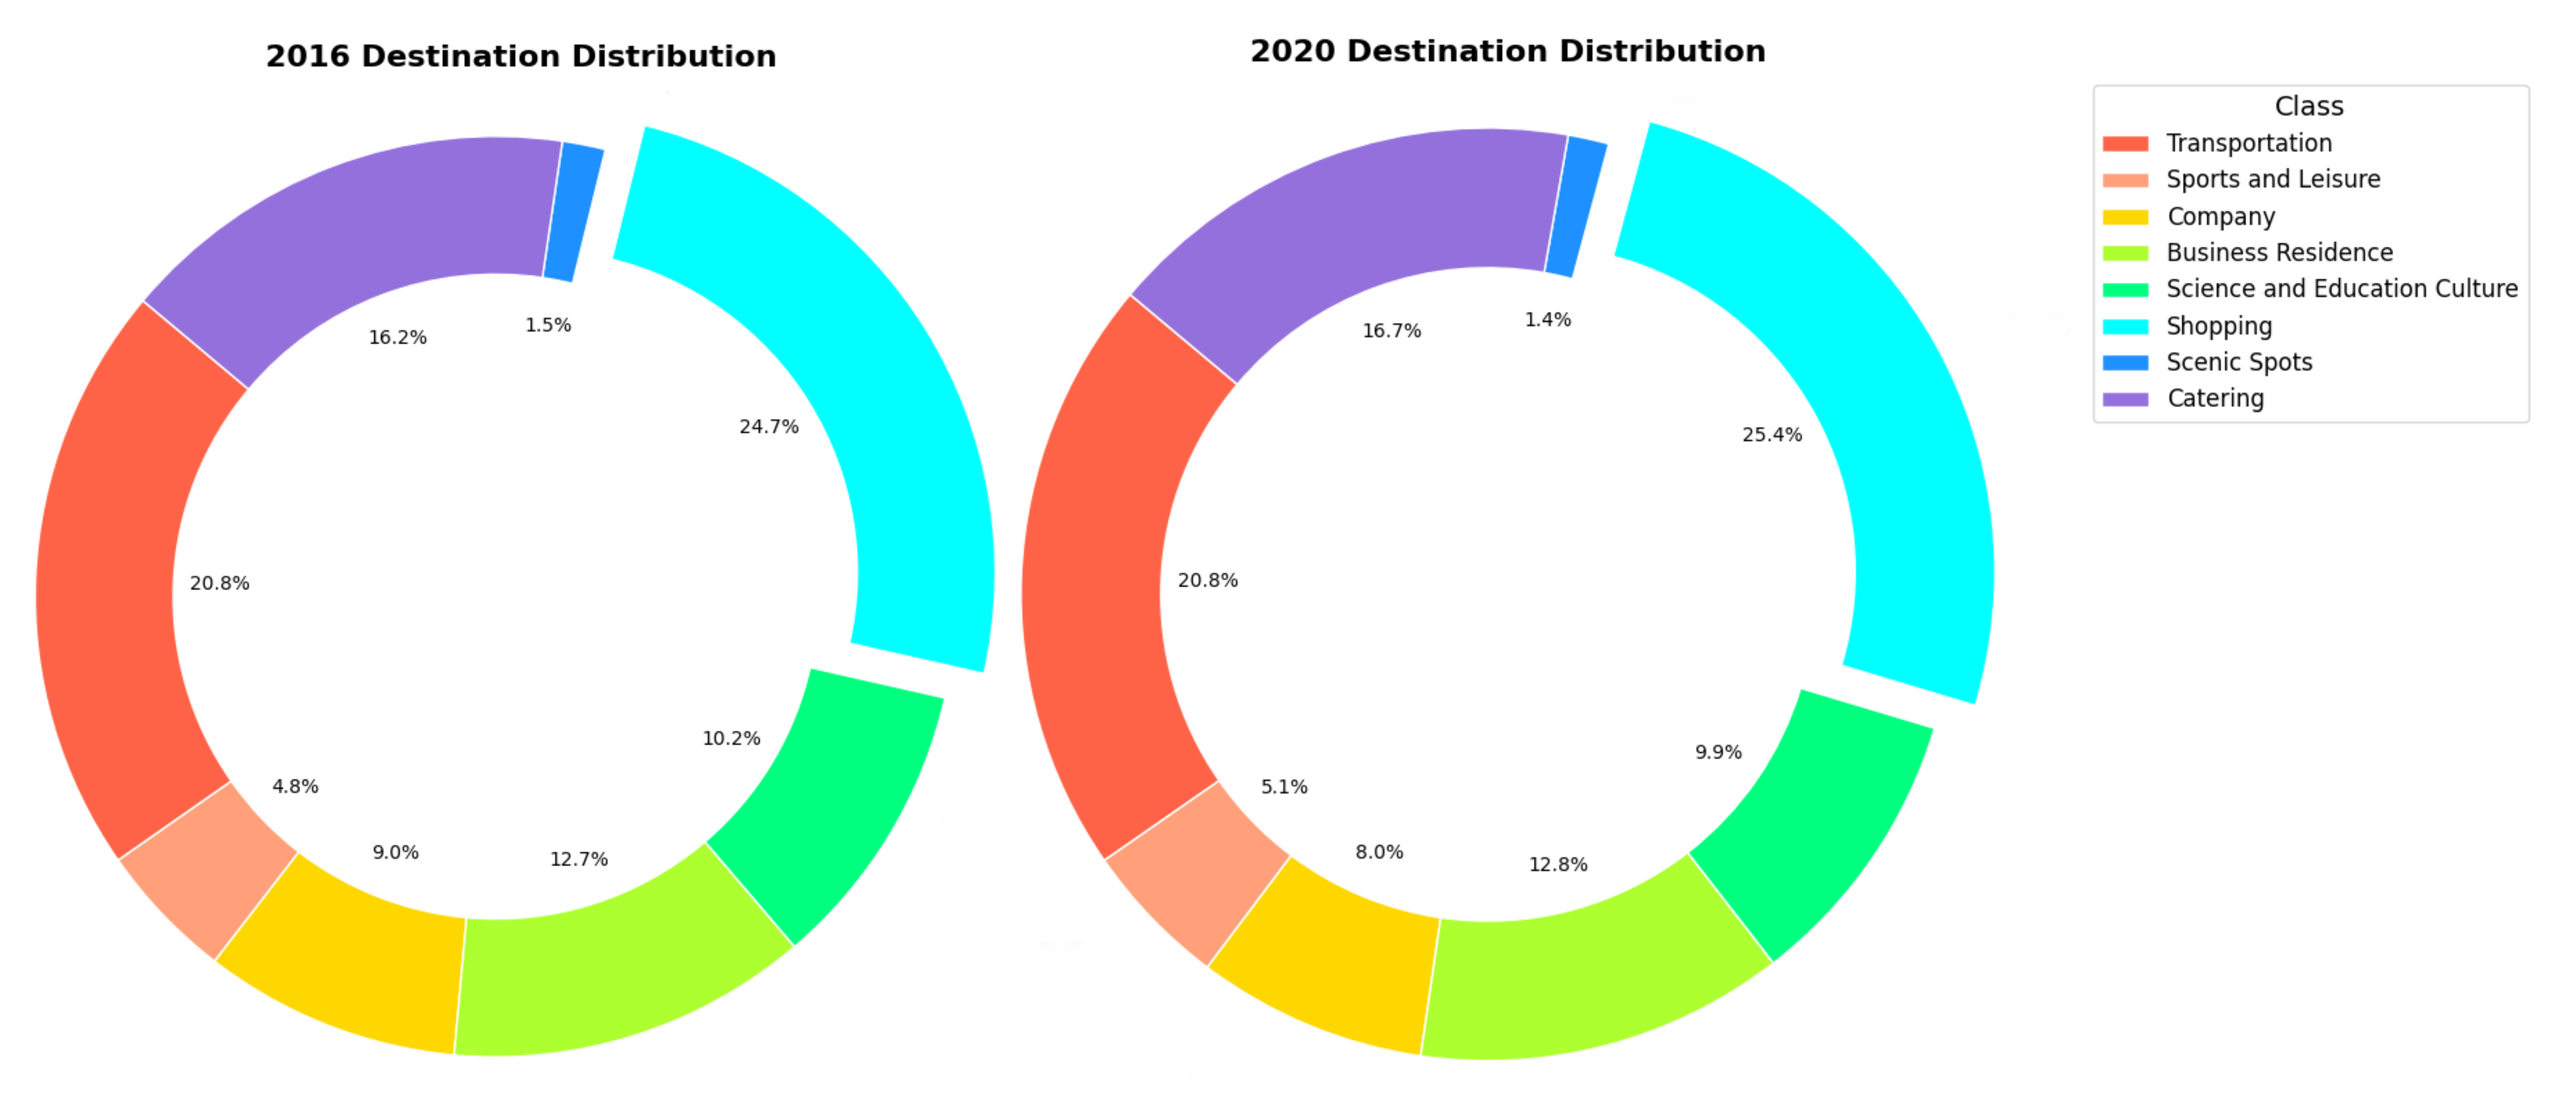
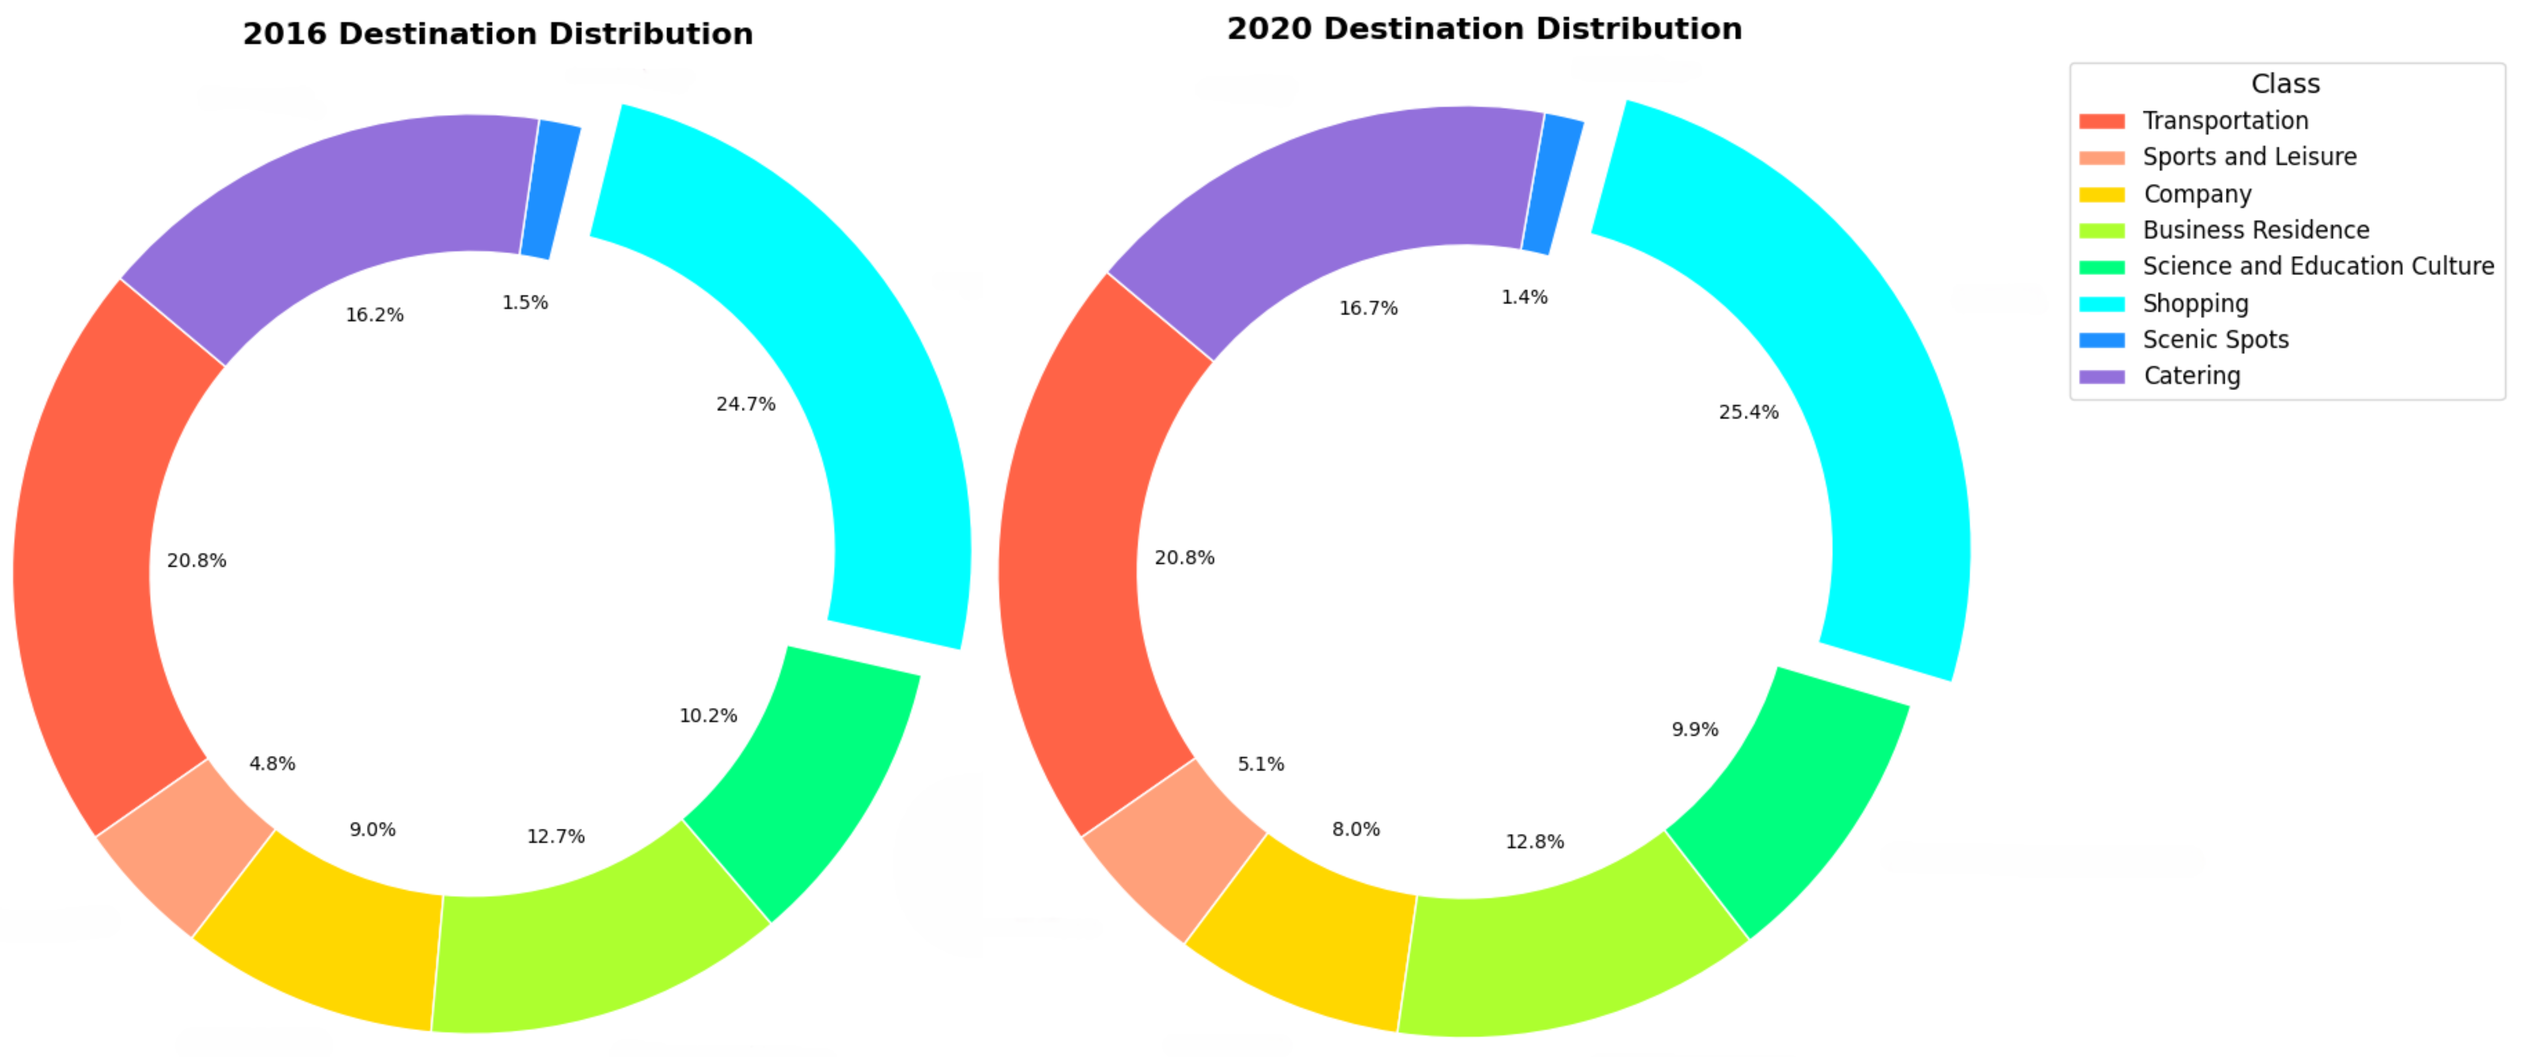
Update shared bike research findings and references in c2.md and c3.md

diff --git a/test/test.py b/test/test.py
@@ -1,12 +1,45 @@
-# 计算每一个小时 占当天总数的比例
-# frequency = frequency / frequency.sum(axis=1)[:, None]
+import math
+from typing import List
+import time
 
-# 测试 计算每一个小时 占当天总数的比例 是否正确
-import numpy as np
+def haversine(latlng1: List[float], latlng2: List[float], R: float = 6378137.0) -> float:
+    rad = math.pi / 180
+    lat1 = latlng1[0] * rad
+    lat2 = latlng2[0] * rad
+    sinDLat = math.sin((latlng2[0] - latlng1[0]) * rad / 2)
+    sinDLon = math.sin((latlng2[1] - latlng1[1]) * rad / 2)
+    a = sinDLat * sinDLat + math.cos(lat1) * math.cos(lat2) * sinDLon * sinDLon
+    c = 2 * math.atan2(math.sqrt(a), math.sqrt(1 - a))
+    return R * c
 
-frequency = np.array([[1, 2, 3], [4, 5, 6], [7, 8, 9]])
-print(frequency)
-print(frequency.sum(axis=1))
-print(frequency.sum(axis=1)[:, None])
-print(frequency / frequency.sum(axis=1)[:, None])
+# 秒 的单位转换
+def time_convert(seconds: float) -> str:
+    if seconds < 1e-6:
+        return f"{seconds * 1e9:.2f} ns"
+    if seconds < 1e-3:
+        return f"{seconds * 1e6:.2f} μs"
+    if seconds < 1:
+        return f"{seconds * 1e3:.2f} ms"
+    return f"{seconds:.2f} s"
 
+# 实现一个量测函数运行时间的装饰器
+def measure_time(func):
+    def wrapper(*args, **kwargs):
+        start = time.time()
+        result = func(*args, **kwargs)
+        end = time.time()
+        # print(f"Function {func.__name__} took {end - start} seconds")
+        print(f"Function {func.__name__} took {time_convert(end - start)}")
+        return result
+    return wrapper
+
+
+
+
+if __name__ == "__main__":
+    # 测试装饰器
+    @measure_time
+    def test():
+        haversine([31.22, 121.48], [39.93, 116.40])
+
+    test()

diff --git a/paper/chapters/c4.md b/paper/chapters/c4.md
@@ -1,7 +1,7 @@
 # 第四章 结果与讨论
 ## 4.1 时间通勤模式分析
 
-## 4.1.1 通勤时距模式
+### 4.1.1 通勤时距模式
 （第一部分 骑行时间柱状图 骑行距离柱状图）
 
 （第二部分 骑行时段分布图）
@@ -13,7 +13,7 @@
 
 2020年工作日骑行时段分布较为不同，其中周一、周二、周三及周末呈现出明显的早晚高峰特征，而周四及周五呈现出类似于2016年周末的平缓单峰特征。并且，周末的早高峰强度甚至大于一般工作日。这种现象与当时新冠疫情防控政策有关，当时某些企业采取居家办公或弹性工作策略，学校也有一定的网络授课安排。另外，大规模核酸检测也会造成非一般的使用时段分布，一些人可能为了不影响工作日正常上班，而选择在周末上午做核算。
 
-## 4.1.1 通勤间隔分析
+### 4.1.1 通勤间隔分析
 间隔，指的是用户的相同行为之间的时间间隔长度，例如用户两次登陆账号的时间间隔等。用户骑行共享单车通勤通常是一种重复性动作，同一用户两次骑行之间的时间间隔可以有效反映使用者的行为习惯。间隔分析就是在研究大量个体用户骑行时间间隔特征的基础上，汇总出总体用户间隔的概率分布并把握宏观用户行为模式的一种研究方法。
 
 用户骑行数据中有用于区分单个用户的编号（UID）及用户开始骑行的时间戳（ST），通过筛选用户编号再顺序求取两次骑行时间戳之间的差值即可获得用户骑行间隔，可以将所有用户的骑行间隔汇总至一个代表了整体用户行为模式的超级用户中。对于单个用户，可以采用如下公式计算骑行间隔：
@@ -42,5 +42,26 @@ $$ F_{X}(x) = \frac{1}{n} \sum_{i=1}^{n} I_i \leq x $$
 2016年的累计分布曲线在 200 小时（约间隔 8 天）处具有明显拐点，数据相对集中于该拐点左侧，呈现出明显的短间隔高频特征，即多数用户一周内要多次骑行共享单车。2020年所有时间间隔的CDF值都小于2016年，这意味着在2020年，用户两次骑行之间的间隔时间总体上比2016年长，考虑到此时处于疫情期间，人们的出行需求受到一定程度的抑制。但是，2020年的曲线没有明显拐点，呈现出一种平缓增加的特征，这说明2020年的两次骑行间隔分布相比2016年更加分散，用户骑行共享单车的通勤模式更为多元，共享单车逐渐为更多人所接受。
 
 ## 4.2 空间通勤模式分析
+
+### 4.2.1 通勤目的地分析
+
+骑行终点往往能反映骑行者的行为目的：骑行终点位于商场附近，可以认为骑行者打算去购物；骑行终点位于交通设施附近（公交车站台、地铁站等），则可以认为共享单车的活动半径无法满足他们的通勤需求；骑行终点位于体育馆或公园附近，可以认为骑行者打算放松休闲。但是，骑行轨迹信息只有 GPS 轨迹点集，而没有直接标明目的地类别
+
+| 类名 | 英文名 | 编码 | 2016 | 2020 |
+| -- | -- | -- | -- | -- |
+| 交通设施服务 | Transportation | 0 | 20.8 | 20.8 |
+| 体育休闲服务 | Sports and Leisure | 1 | 4.8 | 5.1 |
+| 公司企业 | Company | 2 | 9 | 8 |
+| 商务住宅 | Business Residence | 3 | 12.7 | 12.8 
+| 科教文化服务 | Science and Education Culture | 4 | 10.2 | 9.9 |
+| 购物服务 | Shopping | 5 | 24.7 | 25.4 |
+| 风景名胜 | Scenic Spots | 6 | 1.5 | 1.4 |
+| 餐饮服务 | Catering | 7 | 16.2 | 16.7 |
+
+- 上班/居住类目的占比保持稳定，这说明共享单车已经成为人们日常通勤的重要交通工具。
+
+![](../imgs/c4/目的地合.png)
+
+### 4.2.2 
 
 ## 4.4 本章小结

diff --git a/paper/chapters/c3.md b/paper/chapters/c3.md
@@ -89,6 +89,11 @@ $$d = \sum_{i=1}^{n-1} 2r \arcsin(\sqrt{\sin^2(\frac{lat_{i+1} - lat_i}{2}) + \c
 ## 3.3 研究方法
 
 ### 3.3.1 基于兴趣点 GeoHash 编码的轨迹终点最近邻匹配算法
+骑行终点往往能反映骑行者的行为目的：骑行终点位于商场附近，可以认为骑行者打算去购物；骑行终点位于交通设施附近（公交车站台、地铁站等），则可以认为共享单车的活动半径无法满足他们的通勤需求；骑行终点位于体育馆或公园附近，可以认为骑行者打算放松休闲。但是，骑行轨迹信息只有 GPS 轨迹点集，而没有直接标明目的地类别，此时就需要根据上海市兴趣点数据集来推测目的地类别。
+
+对于某一段轨迹终点，可以提取距离其最近兴趣点的类别，这种查找最邻近点并赋值的思想是本算法的指导思想。但是，本文使用到的上海市兴趣点数据集有十二万多条数据，轨迹数据在清洗后也有近十万条。如果直接对所有点进行暴力搜素算法时间复杂度约为 $O(n^2)$，粗略估计将执行120亿次半正弦距离计算（haversine），据本机（i7-10870H,RAM 16 GB）测算，执行一次 haversine 算法大约消耗 15 μs，粗略估计算法将执行超过三小时，这还没有包含对距离进行由小到大排序所耗费的时间。因此建立空间索引并在此基础上设计一种优化算法是必要的。
+
+考虑到在数据预处理时已经计算得轨迹点的 GeoHash 编码，而 GeoHash 编码具有较好的层次结构，可以通过前缀匹配来快速筛选出距离较近（相似度较高的）的兴趣点。可以针对 GeoHash 编码字符串实现一棵前缀树（Trie），
 
 ### 3.3.2 
 

diff --git a/paper/README.md b/paper/README.md
@@ -1,11 +1,11 @@
 # 基于共享单车骑行数据的上海市通勤模式分析
-全文预计 (7.5K /1.6 W) 字
+全文预计 (8.1K /1.6 W) 字
 
 ## 目录
 
 - [第一章 绪论](./chapters/c1.md) (2.2K / 3K)
 - [第二章 理论基础与相关技术](./chapters/c2.md) (2k / 3K)
-- [第三章 研究数据与方法](./chapters//c3.md) (2.1K / 4K)
+- [第三章 研究数据与方法](./chapters//c3.md) (2.7K / 4K)
 - [第四章 结果与讨论](./chapters/c4.md) (1.2k / 4K)
 - [第五章 总结与展望](./chapters/c5.md) (0 / 1K)
 - [附录](./chapters/c6.md) (0 / 1K)
